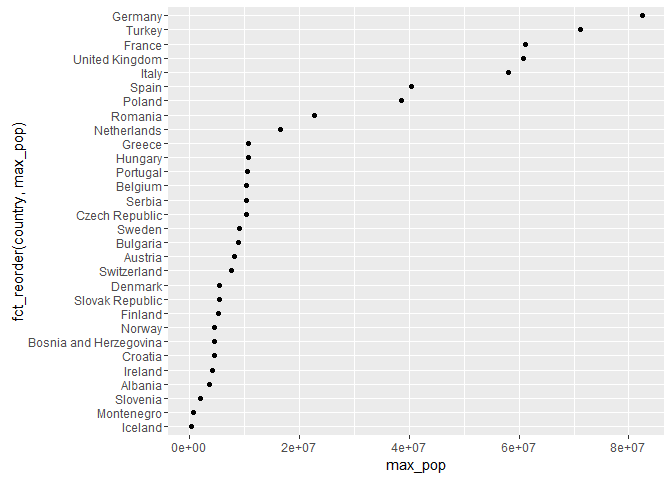
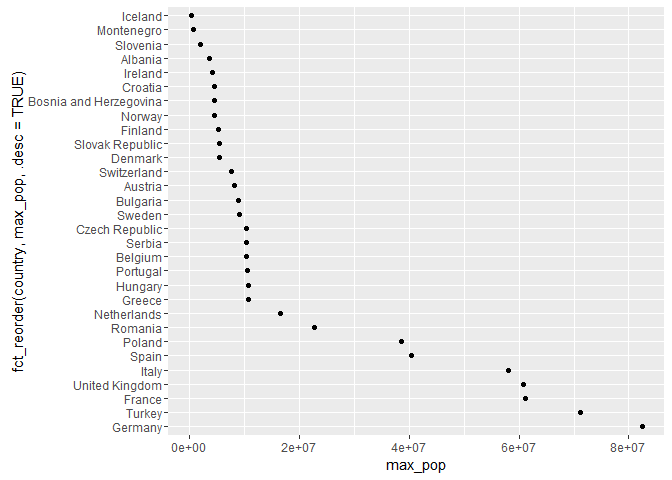
file i/o done

Changed region(s): [[0.0, 0.0312, 0.25, 0.9062], [0.3438, 0.3438, 0.375, 0.5625], [0.0, 0.75, 0.0312, 0.7812]]

diff --git a/hw05_factor-figure-management/hw05_factor-figure-management.md b/hw05_factor-figure-management/hw05_factor-figure-management.md
@@ -150,13 +150,14 @@ nlevels( without_oceania$country )
 #### Extracting maximum population of Countries in Europe (between 1952 and 2007)
 
 ``` r
-europe_max_pop <- gapminder %>%
+max_pop_europe <- gapminder %>%
   filter( continent == "Europe" ) %>%
   group_by( country ) %>% 
   summarize( max_pop = max( pop ) ) %>%
-  droplevels()
-
-head( europe_max_pop )
+  droplevels() %>%
+  ungroup()
+  
+head( max_pop_europe )
 ```
 
     ## # A tibble: 6 × 2
@@ -170,13 +171,13 @@ head( europe_max_pop )
     ## 6                Croatia  4494013
 
 ``` r
-nrow( europe_max_pop )
+nrow( max_pop_europe )
 ```
 
     ## [1] 30
 
 ``` r
-europe_max_pop$country %>%
+max_pop_europe$country %>%
   levels() %>%
   head()
 ```
@@ -185,31 +186,47 @@ europe_max_pop$country %>%
     ## [3] "Belgium"                "Bosnia and Herzegovina"
     ## [5] "Bulgaria"               "Croatia"
 
-``` r
-europe_max_pop %>% 
-  ggplot( aes( x = max_pop , y = country ) ) + geom_point()
-```
-
-![](hw05_factor-figure-management_files/figure-markdown_github/unnamed-chunk-5-1.png)
-
 #### Reordering factor levels of European countries based on descending order of maximum population
 
 ``` r
-pop_desc_reorder <- fct_reorder( europe_max_pop$country , europe_max_pop$max_pop , .desc = TRUE ) %>%
-  levels()
+head( levels( max_pop_europe$country ) )
+```
 
-head(pop_desc_reorder)
+    ## [1] "Albania"                "Austria"               
+    ## [3] "Belgium"                "Bosnia and Herzegovina"
+    ## [5] "Bulgaria"               "Croatia"
+
+``` r
+pop_reorder_europe <- max_pop_europe %>% 
+  mutate( country = fct_reorder( country , max_pop , .desc = TRUE ) )
+
+head( levels( pop_reorder_europe$country ) )
 ```
 
     ## [1] "Germany"        "Turkey"         "France"         "United Kingdom"
     ## [5] "Italy"          "Spain"
 
+``` r
+head( pop_reorder_europe )
+```
+
+    ## # A tibble: 6 × 2
+    ##                  country  max_pop
+    ##                   <fctr>    <int>
+    ## 1                Albania  3600523
+    ## 2                Austria  8199783
+    ## 3                Belgium 10392226
+    ## 4 Bosnia and Herzegovina  4552198
+    ## 5               Bulgaria  8971958
+    ## 6                Croatia  4494013
+
 #### Exploring the effects of `arrange()`
 
 ``` r
-pop_desc_data <- europe_max_pop %>% arrange( desc( max_pop ) ) 
+pop_arr_europe <- max_pop_europe %>%
+  arrange( desc( max_pop ) ) 
 
-head(pop_desc_data)
+head(pop_arr_europe)
 ```
 
     ## # A tibble: 6 × 2
@@ -223,7 +240,7 @@ head(pop_desc_data)
     ## 6          Spain 40448191
 
 ``` r
-pop_desc_data$country %>% 
+pop_arr_europe$country %>% 
   levels() %>% 
   head()
 ```
@@ -233,7 +250,7 @@ pop_desc_data$country %>%
     ## [5] "Bulgaria"               "Croatia"
 
 ``` r
-pop_desc_data %>%
+pop_arr_europe %>%
   ggplot( aes( x = max_pop , y = country ) ) + geom_point()
 ```
 
@@ -242,18 +259,17 @@ pop_desc_data %>%
 #### Exploring the effects of reordering a factor( without `arrange()`)
 
 ``` r
-europe_max_pop$country %>%
+pop_reorder_europe$country %>%
   levels() %>%
   head()
 ```
 
-    ## [1] "Albania"                "Austria"               
-    ## [3] "Belgium"                "Bosnia and Herzegovina"
-    ## [5] "Bulgaria"               "Croatia"
+    ## [1] "Germany"        "Turkey"         "France"         "United Kingdom"
+    ## [5] "Italy"          "Spain"
 
 ``` r
-europe_max_pop %>% 
-  ggplot( aes( x = max_pop , y = fct_reorder( country,max_pop ) ) ) + geom_point()
+pop_reorder_europe %>% 
+  ggplot( aes( x = max_pop , y = country ) ) + geom_point()
 ```
 
 ![](hw05_factor-figure-management_files/figure-markdown_github/unnamed-chunk-8-1.png)
@@ -261,7 +277,7 @@ europe_max_pop %>%
 #### Exploring the effects of factor reordering with `arrange()`
 
 ``` r
-head(pop_desc_data)
+head(pop_arr_europe)
 ```
 
     ## # A tibble: 6 × 2
@@ -275,8 +291,122 @@ head(pop_desc_data)
     ## 6          Spain 40448191
 
 ``` r
-pop_desc_data %>% 
-  ggplot( aes( x = max_pop, y = fct_reorder( country,max_pop ) ) ) + geom_point()
+pop_arr_europe %>% 
+  ggplot( aes( x = max_pop, y = fct_reorder( country , max_pop , .desc = TRUE ) ) ) + geom_point()
 ```
 
 ![](hw05_factor-figure-management_files/figure-markdown_github/unnamed-chunk-9-1.png)
+
+File I/O
+--------
+
+### Data to be used for experimentation
+
+``` r
+head( pop_reorder_europe )
+```
+
+    ## # A tibble: 6 × 2
+    ##                  country  max_pop
+    ##                   <fctr>    <int>
+    ## 1                Albania  3600523
+    ## 2                Austria  8199783
+    ## 3                Belgium 10392226
+    ## 4 Bosnia and Herzegovina  4552198
+    ## 5               Bulgaria  8971958
+    ## 6                Croatia  4494013
+
+``` r
+head( levels( pop_reorder_europe$country ) )
+```
+
+    ## [1] "Germany"        "Turkey"         "France"         "United Kingdom"
+    ## [5] "Italy"          "Spain"
+
+### Writing to (`write_csv()`) and reading from (`read_csv()`) a comma-delimited file
+
+``` r
+write_csv( pop_reorder_europe , "pop_reorder_europe.csv" )
+
+eur_csv_data <- read_csv( "pop_reorder_europe.csv" )
+```
+
+    ## Parsed with column specification:
+    ## cols(
+    ##   country = col_character(),
+    ##   max_pop = col_integer()
+    ## )
+
+``` r
+head( eur_csv_data )
+```
+
+    ## # A tibble: 6 × 2
+    ##                  country  max_pop
+    ##                    <chr>    <int>
+    ## 1                Albania  3600523
+    ## 2                Austria  8199783
+    ## 3                Belgium 10392226
+    ## 4 Bosnia and Herzegovina  4552198
+    ## 5               Bulgaria  8971958
+    ## 6                Croatia  4494013
+
+``` r
+head( levels( eur_csv_data$country ) )
+```
+
+    ## NULL
+
+### Writing to (`saveRDS()`) and reading from (`readRDS()`) a file while preserving factor levels
+
+``` r
+saveRDS( pop_reorder_europe , "pop_reorder_europe.rds" )
+
+eur_rds_data <- readRDS( "pop_reorder_europe.rds" )
+
+head( eur_rds_data )
+```
+
+    ## # A tibble: 6 × 2
+    ##                  country  max_pop
+    ##                   <fctr>    <int>
+    ## 1                Albania  3600523
+    ## 2                Austria  8199783
+    ## 3                Belgium 10392226
+    ## 4 Bosnia and Herzegovina  4552198
+    ## 5               Bulgaria  8971958
+    ## 6                Croatia  4494013
+
+``` r
+head( levels( eur_rds_data$country ) )
+```
+
+    ## [1] "Germany"        "Turkey"         "France"         "United Kingdom"
+    ## [5] "Italy"          "Spain"
+
+### Writing to (`dput()`) and reading from (`dget()`) a file while preserving factor levels
+
+``` r
+dput( pop_reorder_europe , "pop_reorder_europe-dput.txt" )
+
+eur_txt_data <- dget( "pop_reorder_europe-dput.txt" )
+
+head( eur_txt_data )
+```
+
+    ## # A tibble: 6 × 2
+    ##                  country  max_pop
+    ##                   <fctr>    <int>
+    ## 1                Albania  3600523
+    ## 2                Austria  8199783
+    ## 3                Belgium 10392226
+    ## 4 Bosnia and Herzegovina  4552198
+    ## 5               Bulgaria  8971958
+    ## 6                Croatia  4494013
+
+``` r
+head( levels( eur_txt_data$country ) )
+```
+
+    ## [1] "Germany"        "Turkey"         "France"         "United Kingdom"
+    ## [5] "Italy"          "Spain"
